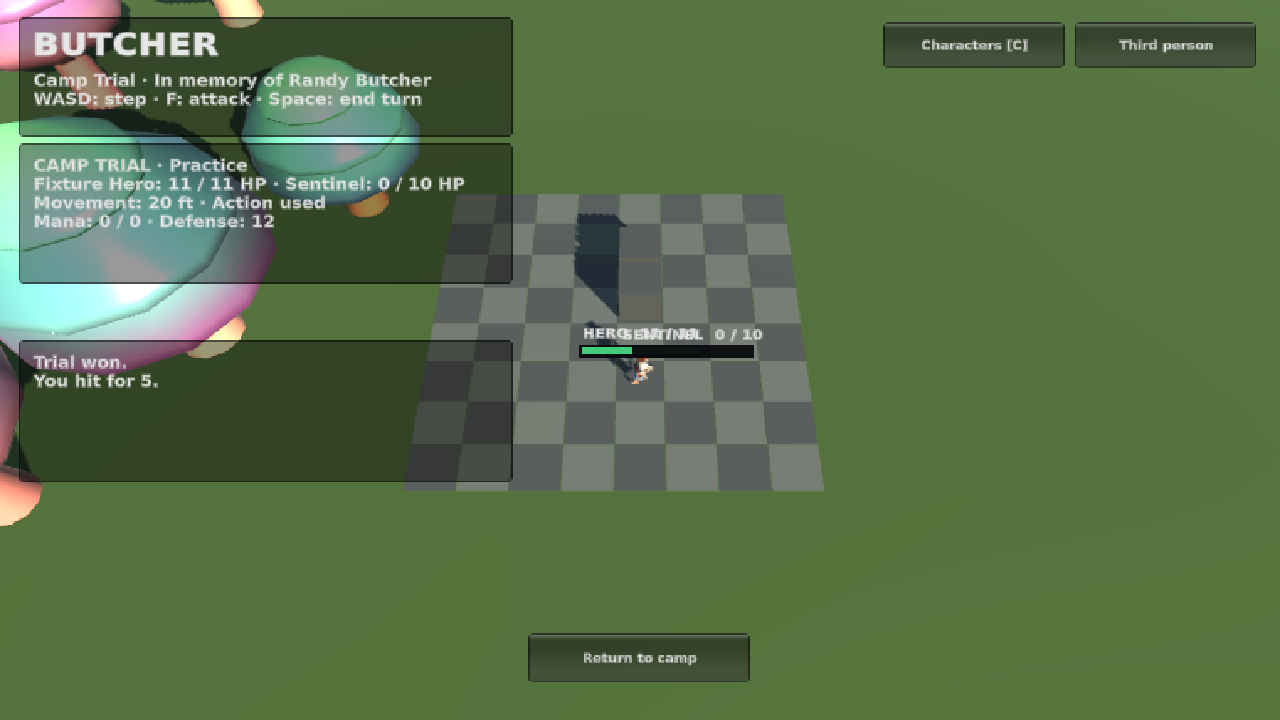
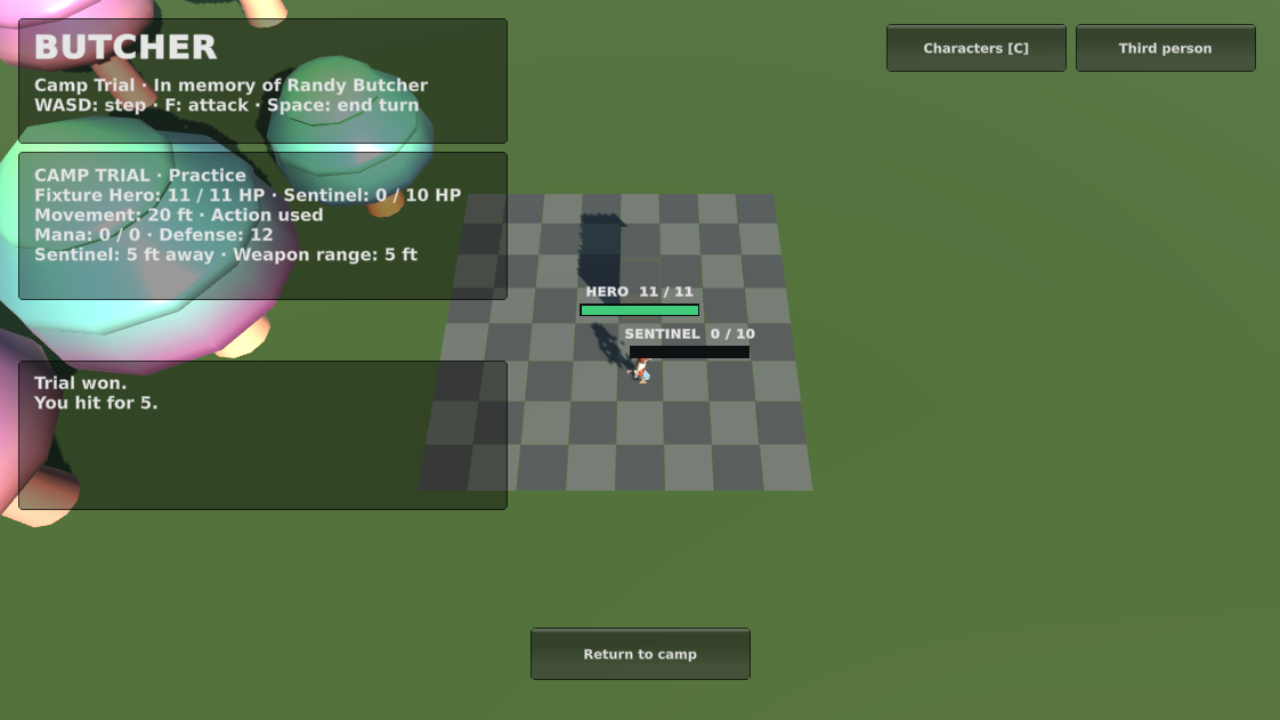
Show trial range and block invalid movement inputs

diff --git a/unity/Butcher/Assets/Butcher/Runtime/ButcherCombatController.cs b/unity/Butcher/Assets/Butcher/Runtime/ButcherCombatController.cs
@@ -78,9 +78,26 @@ namespace Imperial.Butcher
         }
         void Step(int x, int y)
         {
-            var hero = Actor("hero"); if (!CanAct || hero == null) return;
-            if (hero.movementRemainingFeet < snapshot.encounter.state.map.tileSizeFeet) { notice = "Movement spent. End your turn."; return; }
-            SubmitCommand("{\"type\":\"move\",\"path\":[{\"x\":" + (hero.position.x + x) + ",\"y\":" + (hero.position.y + y) + "}]}");
+            if (!CanAct) return;
+            var hero = Actor("hero");
+            int targetX = hero.position.x + x, targetY = hero.position.y + y;
+            var reason = StepBlockReason(hero, targetX, targetY);
+            if (reason != null) { notice = reason; return; }
+            SubmitCommand("{\"type\":\"move\",\"path\":[{\"x\":" + targetX + ",\"y\":" + targetY + "}]}");
+        }
+        string StepBlockReason(ActorState hero, int x, int y)
+        {
+            var map = snapshot.encounter.state.map;
+            if (hero.movementRemainingFeet < map.tileSizeFeet) return "Movement spent. End your turn.";
+            if (x < 0 || y < 0 || x >= map.width || y >= map.height) return "That step leaves the arena.";
+            if (Array.IndexOf(map.blockedCells ?? Array.Empty<string>(), x + "," + y) >= 0) return "A wall blocks that step.";
+            var hostile = Actor("sentinel");
+            if (hostile.hitPoints > 0 && hostile.position.x == x && hostile.position.y == y) return "The sentinel blocks that step.";
+            return null;
+        }
+        int DistanceFeet(ActorState hero, ActorState hostile)
+        {
+            return (Math.Abs(hero.position.x-hostile.position.x) + Math.Abs(hero.position.y-hostile.position.y)) * snapshot.encounter.state.map.tileSizeFeet;
         }
         bool CanAttack
         {
@@ -88,8 +105,7 @@ namespace Imperial.Butcher
             {
                 var hero = Actor("hero"); var hostile = Actor("sentinel");
                 if (!CanAct || hero == null || hostile == null || hero.actionUsed || hero.weapon == null) return false;
-                int distance = (Math.Abs(hero.position.x-hostile.position.x)+Math.Abs(hero.position.y-hostile.position.y))*snapshot.encounter.state.map.tileSizeFeet;
-                return distance <= hero.weapon.rangeFeet;
+                return DistanceFeet(hero, hostile) <= hero.weapon.rangeFeet;
             }
         }
         void AttackTarget()
@@ -102,8 +118,7 @@ namespace Imperial.Butcher
             var hero = Actor("hero"); var hostile = Actor("sentinel");
             if (!CanAct || hero == null || hero.actionUsed || hero.mana < 1 || Array.IndexOf(hero.abilityIds ?? Array.Empty<string>(), id) < 0) return false;
             if (id == "guarding_vow") return hero.wardArmorBonus == 0;
-            int distance = (Math.Abs(hero.position.x-hostile.position.x)+Math.Abs(hero.position.y-hostile.position.y))*snapshot.encounter.state.map.tileSizeFeet;
-            return distance <= 30;
+            return DistanceFeet(hero, hostile) <= 30;
         }
         void UseSkill(string id)
         {
@@ -268,7 +283,8 @@ namespace Imperial.Butcher
             }
             var hero=Actor("hero");var hostile=Actor("sentinel");
             GUI.Box(new Rect(18,152,490,148),"");
-            GUI.Label(new Rect(34,162,456,136),"CAMP TRIAL · Practice\n"+hero.name+": "+hero.hitPoints+" / "+hero.maxHitPoints+" HP · Sentinel: "+hostile.hitPoints+" / "+hostile.maxHitPoints+" HP\nMovement: "+hero.movementRemainingFeet+" ft · "+(hero.actionUsed?"Action used":"Action ready")+"\nMana: "+hero.mana+" / "+hero.maxMana+" · Defense: "+hero.armorClass+(hero.wardArmorBonus>0?" (ward active)":""),text);
+            string range = hero.weapon == null ? "No weapon" : "Weapon range: " + hero.weapon.rangeFeet + " ft";
+            GUI.Label(new Rect(34,162,456,136),"CAMP TRIAL · Practice\n"+hero.name+": "+hero.hitPoints+" / "+hero.maxHitPoints+" HP · Sentinel: "+hostile.hitPoints+" / "+hostile.maxHitPoints+" HP\nMovement: "+hero.movementRemainingFeet+" ft · "+(hero.actionUsed?"Action used":"Action ready")+"\nMana: "+hero.mana+" / "+hero.maxMana+" · Defense: "+hero.armorClass+(hero.wardArmorBonus>0?" (ward active)":"")+"\nSentinel: "+DistanceFeet(hero,hostile)+" ft away · "+range,text);
             GUI.Box(new Rect(18,360,490,150),"");
             GUI.Label(new Rect(34,370,456,130),notice+"\n"+string.Join("\n",recent.ToArray()),text);
             if (snapshot.encounter.state.phase=="completed")
@@ -284,15 +300,21 @@ namespace Imperial.Butcher
             if(GUI.Button(new Rect(w/2-260,h-92,160,52),"Attack [F]"))AttackTarget();
             GUI.enabled=CanAct;
             if(GUI.Button(new Rect(w/2-90,h-92,160,52),"End turn [Space]"))SubmitCommand("{\"type\":\"end_turn\"}");
-            if(GUI.Button(new Rect(86,h-174,64,64),"↑"))Step(0,1);
-            if(GUI.Button(new Rect(22,h-108,64,64),"←"))Step(-1,0);
-            if(GUI.Button(new Rect(86,h-108,64,64),"↓"))Step(0,-1);
-            if(GUI.Button(new Rect(150,h-108,64,64),"→"))Step(1,0);
+            DrawStepButton(hero, new Rect(86,h-174,64,64), "↑", 0, 1);
+            DrawStepButton(hero, new Rect(22,h-108,64,64), "←", -1, 0);
+            DrawStepButton(hero, new Rect(86,h-108,64,64), "↓", 0, -1);
+            DrawStepButton(hero, new Rect(150,h-108,64,64), "→", 1, 0);
+            GUI.enabled=CanAct;
             if(GUI.Button(new Rect(w-184,h-92,160,52),"Leave trial"))SubmitCommand("{\"type\":\"abandon\"}");
             GUI.enabled=!menu.IsBusy;
             if(GUI.Button(new Rect(w-204,140,180,44),"Refresh trial"))RefreshTrial();
             if(pendingBody!=null && GUI.Button(new Rect(w-204,194,180,44),"Retry same action"))Send(pendingBody,true);
             GUI.enabled=true;
+        }
+        void DrawStepButton(ActorState hero, Rect rect, string label, int dx, int dy)
+        {
+            GUI.enabled = CanAct && StepBlockReason(hero, hero.position.x + dx, hero.position.y + dy) == null;
+            if (GUI.Button(rect, label)) Step(dx, dy);
         }
         [Serializable] public class TrialReply { public TrialEnvelope encounter; public TrialEvent[] events; }
         [Serializable] public class TrialEnvelope { public string id,characterId; public State state; }

diff --git a/unity/Butcher/Tools/verify_trial.py b/unity/Butcher/Tools/verify_trial.py
@@ -36,6 +36,20 @@ try:
  frames()
  evaluate('var c=UnityEngine.Object.FindFirstObjectByType<Imperial.Butcher.ButcherCombatController>();if(c==null)throw new System.Exception("Trial controller missing");if(UnityEngine.Object.FindFirstObjectByType<Imperial.Butcher.ButcherCharacterMenu>().IsSignedIn)throw new System.Exception("Unexpected real session");c.GetType().GetField("heroId",System.Reflection.BindingFlags.NonPublic|System.Reflection.BindingFlags.Instance).SetValue(c,"fixture-hero");return "Local presentation fixture only";')
  assert apply(reply)==0
+ assert evaluate('''
+ var c = UnityEngine.Object.FindFirstObjectByType<Imperial.Butcher.ButcherCombatController>();
+ var flags = System.Reflection.BindingFlags.NonPublic | System.Reflection.BindingFlags.Instance;
+ var actor = c.GetType().GetMethod("Actor", flags);
+ var hero = (Imperial.Butcher.ButcherCombatController.ActorState)actor.Invoke(c, new object[] { "hero" });
+ var sentinel = actor.Invoke(c, new object[] { "sentinel" });
+ var step = c.GetType().GetMethod("StepBlockReason", flags);
+ var distance = c.GetType().GetMethod("DistanceFeet", flags);
+ return (int)distance.Invoke(c, new object[] { hero, sentinel }) == 15
+     && step.Invoke(c, new object[] { hero, 3, 2 }) == null
+     && (string)step.Invoke(c, new object[] { hero, -1, 2 }) == "That step leaves the arena."
+     && (string)step.Invoke(c, new object[] { hero, 4, 4 }) == "A wall blocks that step."
+     && (string)step.Invoke(c, new object[] { hero, 5, 2 }) == "The sentinel blocks that step.";
+ ''')
  assert evaluate('return UnityEngine.Object.FindFirstObjectByType<Imperial.Butcher.ButcherCombatController>().InTrial;')
  assert evaluate('return UnityEngine.GameObject.Find("Camp Trial Arena").GetComponentsInChildren<UnityEngine.Renderer>().Length;')==69
  evaluate('UnityEngine.Object.FindFirstObjectByType<Imperial.Butcher.ButcherCombatController>().GetType().GetField("notice",System.Reflection.BindingFlags.NonPublic|System.Reflection.BindingFlags.Instance).SetValue(UnityEngine.Object.FindFirstObjectByType<Imperial.Butcher.ButcherCombatController>(),"Presentation fixture · no server mutations");return "Fixture labelled";')
